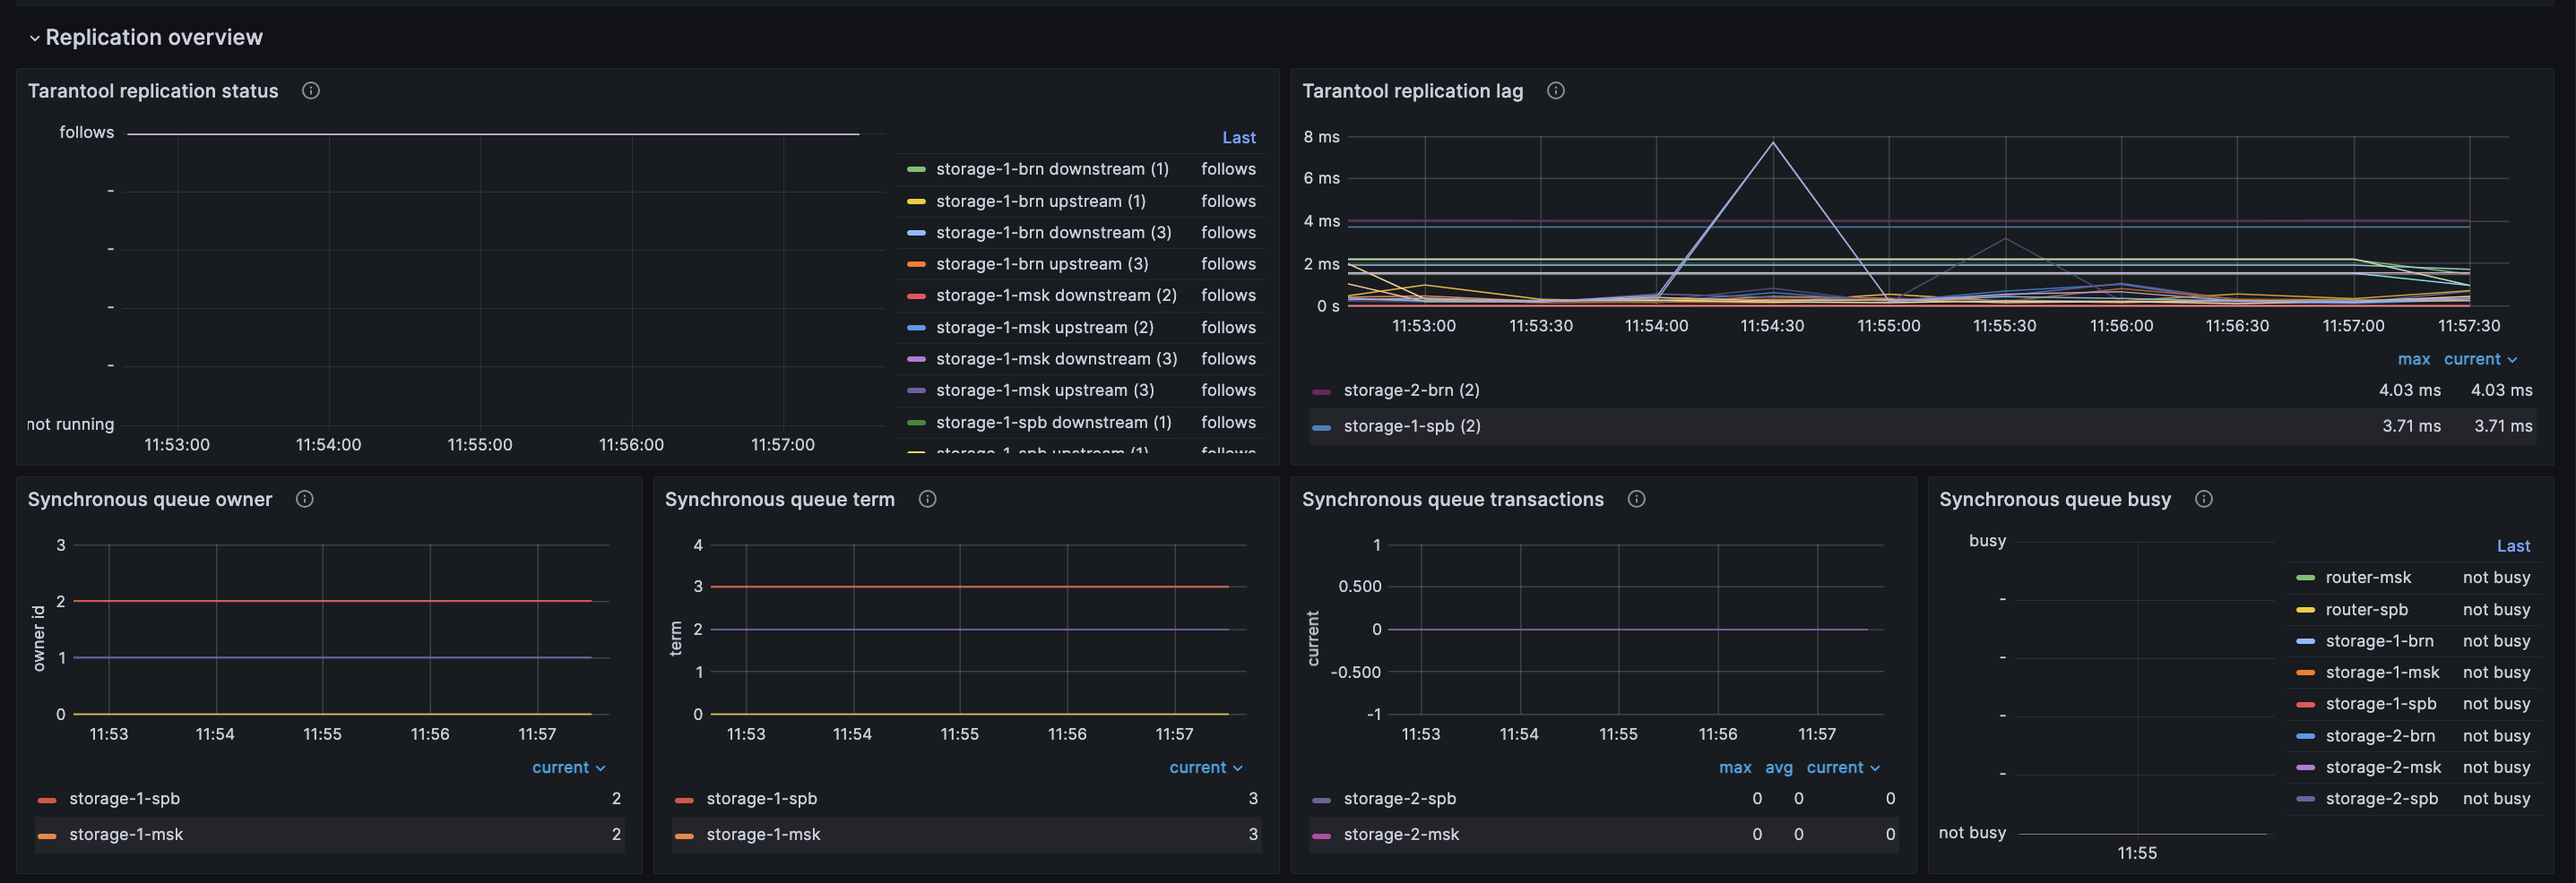
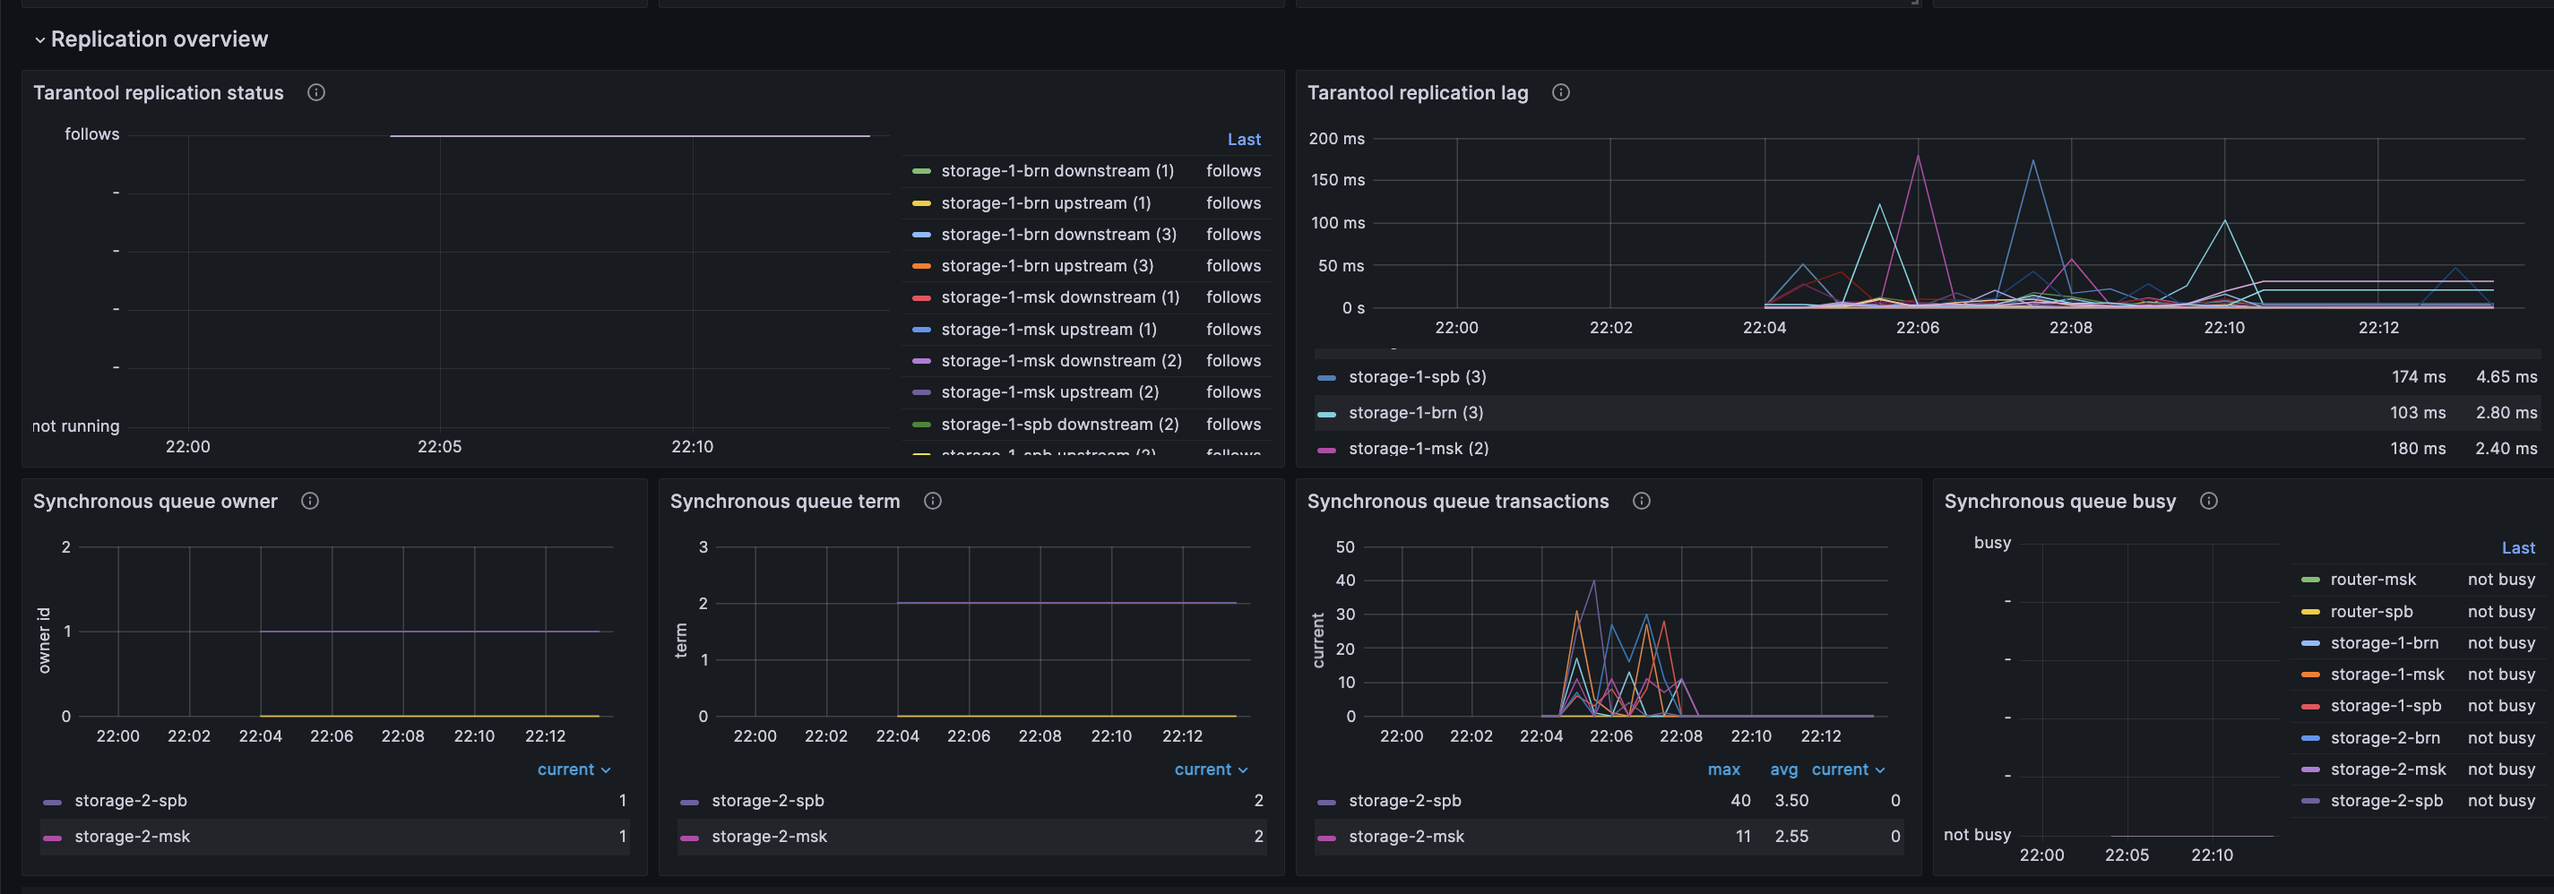
Правки в примере

diff --git a/examples/sync_replication/sync_replication.md b/examples/sync_replication/sync_replication.md
@@ -118,8 +118,13 @@ go run -tags go_tarantool_ssl_disable main.go target=sync
 Состояние репликации можно отслеживать в дашборде `Replication overview`:
 ![](./images/replication.png)
 
-При запуске записи в синхронный спейс наблюдается примерно такая картина:
-![](./images/synchro_que.png)
+Обратите внимание на графикики `Synchronyos queue transactions` и `Tarantool replication lag`
+При синхронной репликации они такие:
+![](./images/synchro_queue.png)
+![](./images/synchro_lag.png)
+При асинхронной репликации они такие (внимание на конец графика, в этот момет была переключена нагрузка на запись в асинхронный спейс):
+![](./images/asynchro_queue.png)
+![](./images/asynchro_lag.png)
 
 Также можно заметить увеличивающиеся нагрузку по метрикам:
 ![](./images/insert_requests.png)
